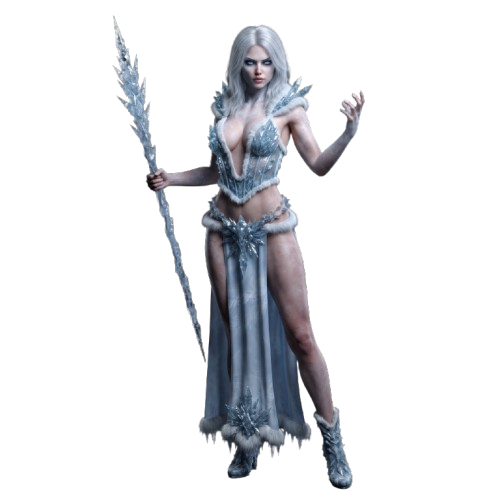
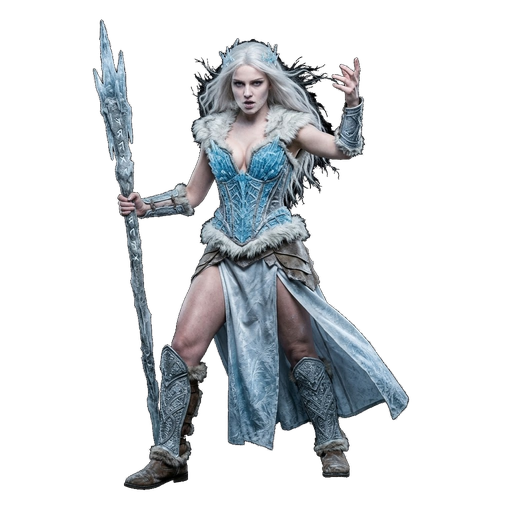
assets(enemies): add/replace 29 cleanly cut out enemy sprites e091-e120 (v7.32)

Changed region(s): [[0.18, 0.03, 0.81, 0.99]]

diff --git a/js/data.js b/js/data.js
@@ -5,7 +5,7 @@
  ============================================================ */
 
 /* ── App info ── */
-export const APP_VERSION = "7.31";
+export const APP_VERSION = "7.32";
 export const APP_RELEASE = "12/11/2026";
 export const APP_DEV = "djiglio.ai";
 
